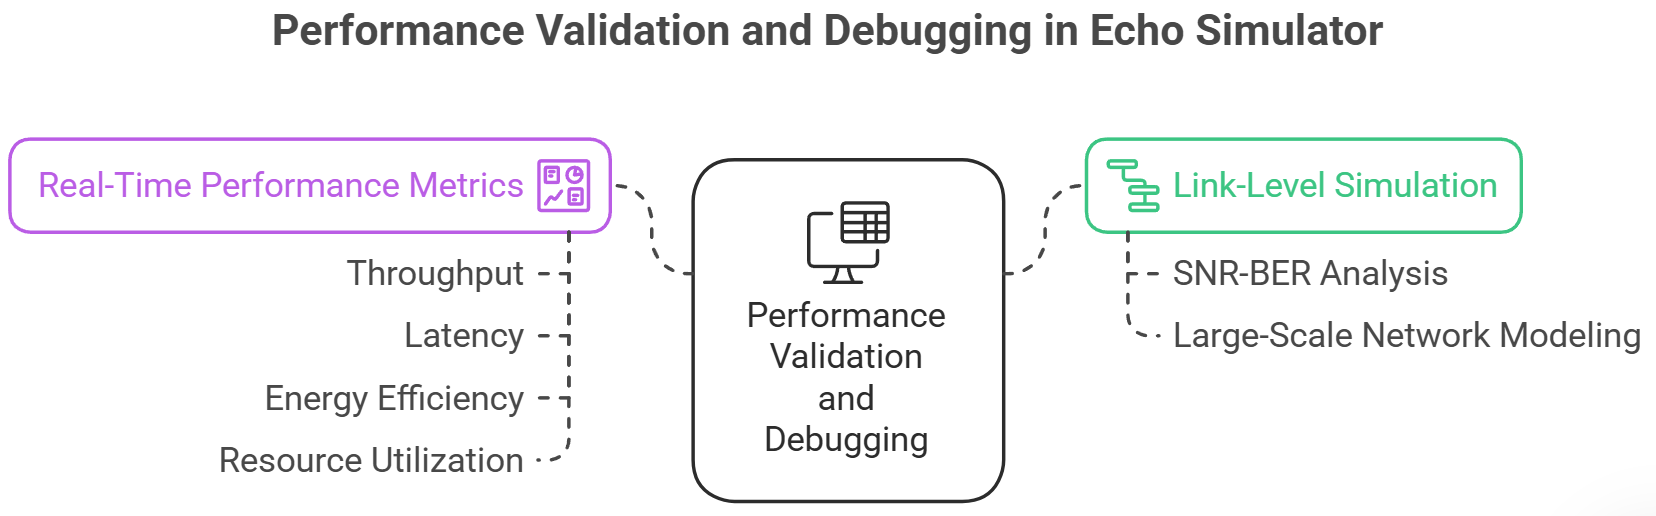
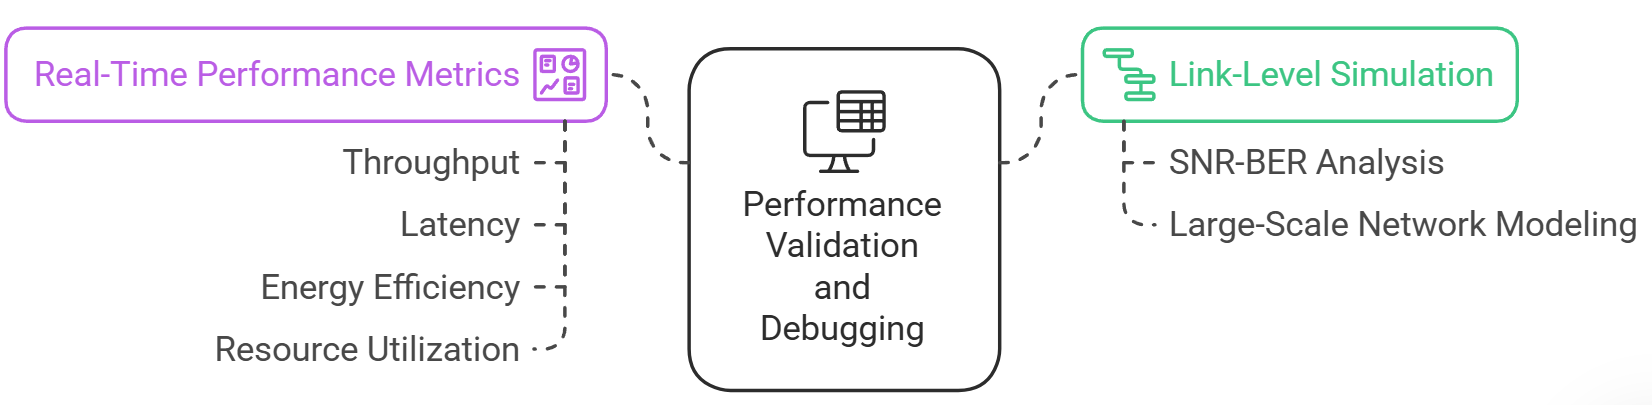
Update Supported Features.

diff --git a/pages/mydoc/mydoc_supported_features.md b/pages/mydoc/mydoc_supported_features.md
@@ -89,7 +89,7 @@ folder: mydoc
 
 <h2 id="UjTtM"><font style="color:rgb(0, 0, 0);">4. </font><font style="color:rgb(0, 0, 0) !important;">Performance Validation and Debugging</font></h2>
 <div style="text-align: center;">
-  {% include image.html file="Supported_Features2.png" caption="" %}
+  {% include image.html file="Supported_Features5.png" caption="" %}
 </div>
 
 
